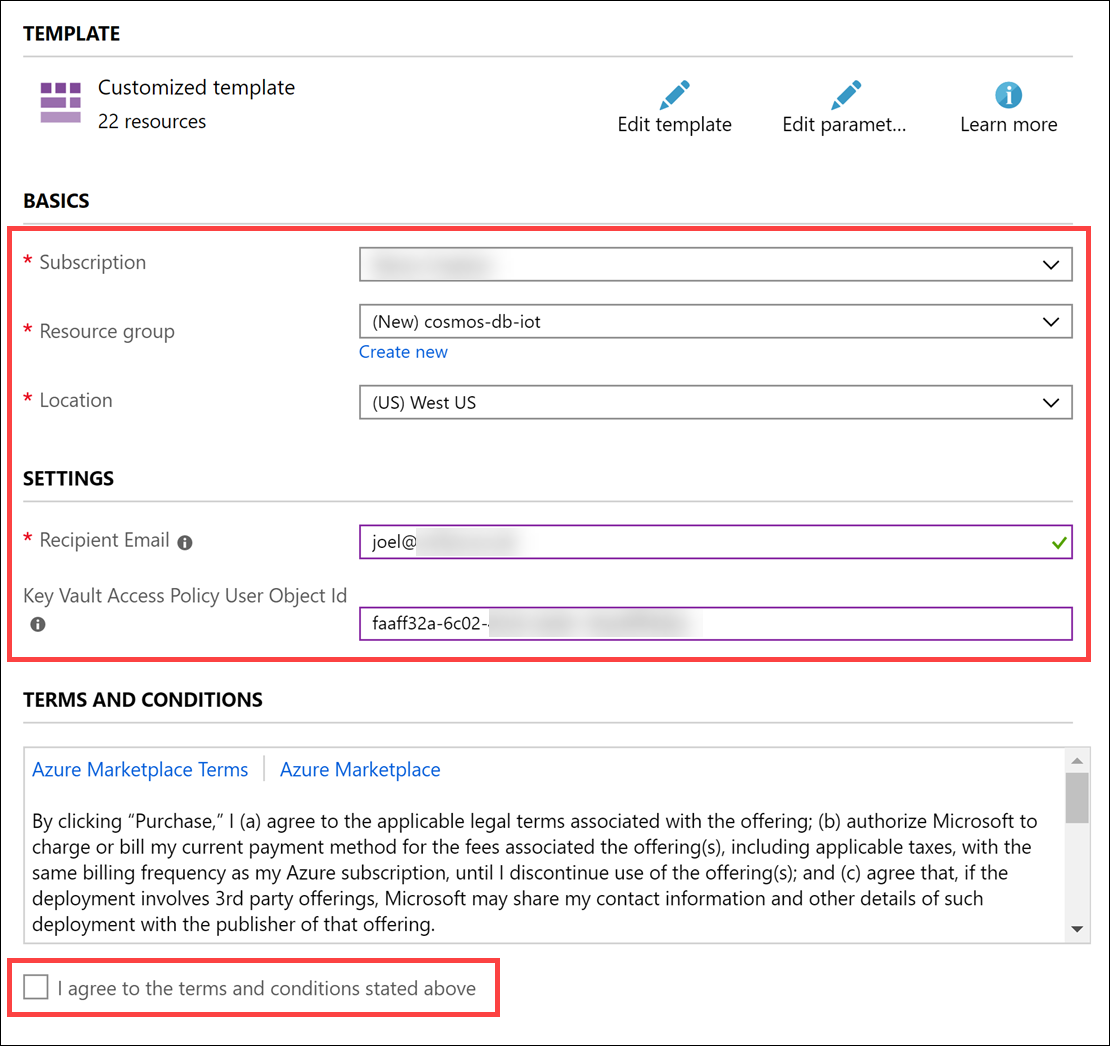
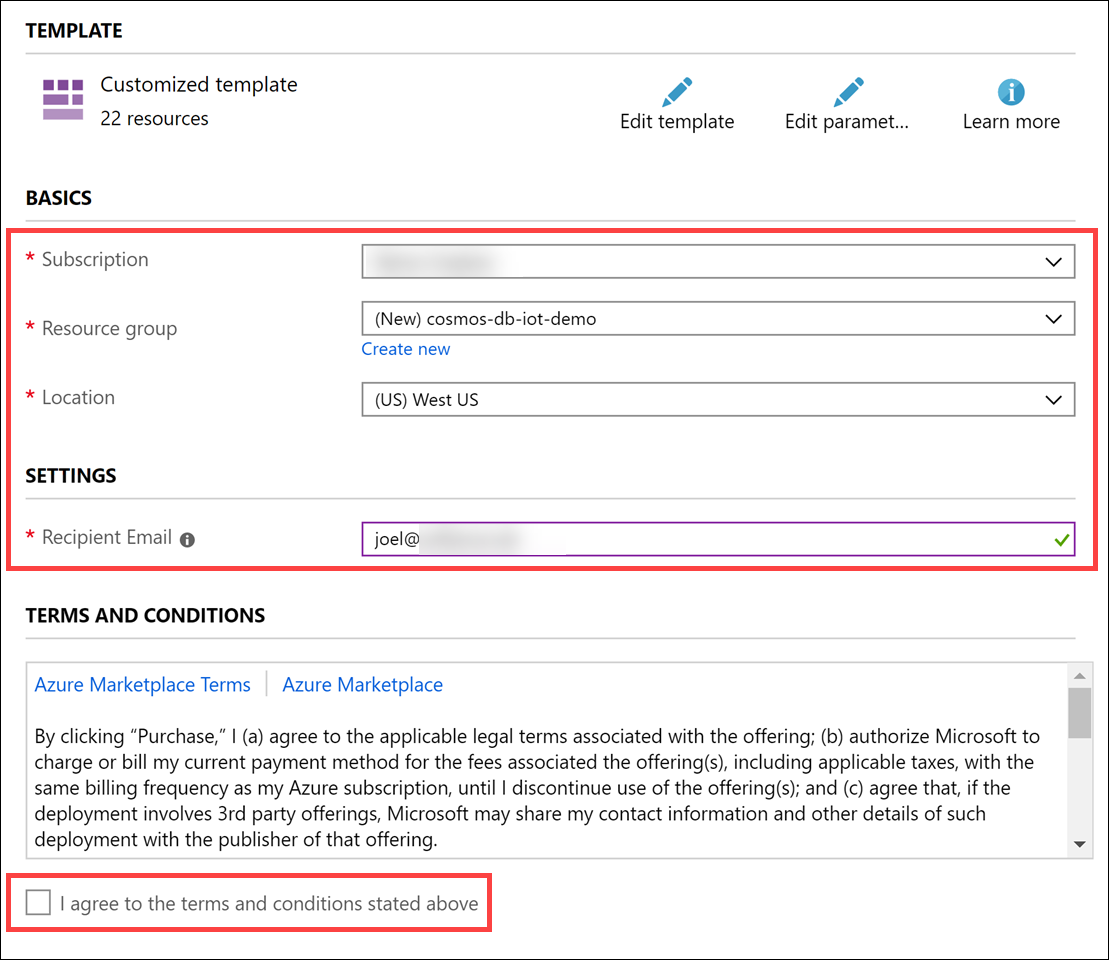
Added more Key Vault-related steps

diff --git a/IoT/HOL step-by step - Cosmos DB scenario-based labs - IoT.md b/IoT/HOL step-by step - Cosmos DB scenario-based labs - IoT.md
@@ -16,11 +16,12 @@
     - [Task 2: Configure Cosmos DB container indexing and TTL](#task-2-configure-cosmos-db-container-indexing-and-ttl)
       - [About the Cosmos DB indexing policies](#about-the-cosmos-db-indexing-policies)
     - [Task 3: Create a Logic App workflow for email alerts](#task-3-create-a-logic-app-workflow-for-email-alerts)
-    - [Task 4: Add Key Vault secrets](#task-4-add-key-vault-secrets)
-    - [Task 5: Create system-assigned managed identities for your Function Apps and Web App to connect to Key Vault](#task-5-create-system-assigned-managed-identities-for-your-function-apps-and-web-app-to-connect-to-key-vault)
-    - [Task 6: Add Function Apps and Web App to Key Vault access policy](#task-6-add-function-apps-and-web-app-to-key-vault-access-policy)
-    - [Task 7: Create Azure Databricks cluster](#task-7-create-azure-databricks-cluster)
-    - [Task 8: Configure Key Vault-backed Databricks secret store](#task-8-configure-key-vault-backed-databricks-secret-store)
+    - [Task 4: Create system-assigned managed identities for your Function Apps and Web App to connect to Key Vault](#task-4-create-system-assigned-managed-identities-for-your-function-apps-and-web-app-to-connect-to-key-vault)
+    - [Task 5: Add Function Apps and Web App to Key Vault access policy](#task-5-add-function-apps-and-web-app-to-key-vault-access-policy)
+    - [Task 6: Add your user account to Key Vault access policy](#task-6-add-your-user-account-to-key-vault-access-policy)
+    - [Task 7: Add Key Vault secrets](#task-7-add-key-vault-secrets)
+    - [Task 8: Create Azure Databricks cluster](#task-8-create-azure-databricks-cluster)
+    - [Task 9: Configure Key Vault-backed Databricks secret store](#task-9-configure-key-vault-backed-databricks-secret-store)
   - [Exercise 2: Configure windowed queries in Stream Analytics](#exercise-2-configure-windowed-queries-in-stream-analytics)
     - [Task 1: Add Stream Analytics Event Hubs input](#task-1-add-stream-analytics-event-hubs-input)
     - [Task 2: Add Stream Analytics outputs](#task-2-add-stream-analytics-outputs)
@@ -453,45 +454,7 @@ In this task, you will create a new Logic App workflow and configure it to send 
 
     ![The http post URL is highlighted.](media/logic-app-url.png 'Logic App')
 
-### Task 4: Add Key Vault secrets
-
-Azure Key Vault is used to Securely store and tightly control access to tokens, passwords, certificates, API keys, and other secrets. In addition, secrets that are stored in Azure Key Vault are centralized, giving the added benefits of only needing to update secrets in one place, such as an application key value after recycling the key for security purposes. In this task, we will store application secrets in Azure Key Vault, then configure the Function Apps and Web App to securely connect to Azure Key Vault by performing the following steps:
-
-- Add secrets to the provisioned Key Vault.
-- Create a system-assigned managed identity for each Azure Function App and the Web App to read from the vault.
-- Create an access policy in Key Vault with the "Get" secret permission, assigned to each of these application identities.
-
-> We recommend that you open two browser tabs for these steps. One to copy secrets from each Azure service, and the other to add the secrets to Key Vault.
-
-1. Using a new tab or instance of your browser, navigate to the Azure portal, <https://portal.azure.com>.
-
-2. Select **Resource groups** from the left-hand menu, then search for your resource group by typing in `cosmos-db-iot`. Select your resource group that you are using for this lab.
-
-3. Open the your **Key Vault**. The name should begin with `iot-vault`.
-
-   ![The Key Vault is highlighted in the resource group.](media/resource-group-keyvault.png 'Resource group')
-
-4. Select **Secrets** in the left-hand menu, then select **+ Generate/Import** to create a new secret.
-
-   ![The Secrets menu item is highlighted, and the Generate/Import button is selected.](media/key-vault-secrets-generate.png 'Key Vault Secrets')
-
-5. Use the table below for the Name / Value pairs to use when creating the secrets. You only need to populate the **Name** and **Value** fields for each secret, and can leave the other fields at their default values.
-
-   | **Name**            |                                                                          **Value**                                                                          |
-   | ------------------- | :---------------------------------------------------------------------------------------------------------------------------------------------------------: |
-   | CosmosDBConnection  |                            Your Cosmos DB connection string found here: **Cosmos DB account > Keys > Primary Connection String**                            |
-   | CosmosDBEndpoint    |                                           Your Cosmos DB endpoint found here: **Cosmos DB account > Keys > URI**                                            |
-   | CosmosDBPrimaryKey  |                                      Your Cosmos DB primary key found here: **Cosmos DB account > Keys > Primary Key**                                      |
-   | IoTHubConnection    |                         Your IoT Hub connection string found here: **IoT Hub > Built-in endpoints > Event Hub-compatible endpoint**                         |
-   | ColdStorageAccount  |  Connection string to the Azure Storage account whose name starts with `iotstore`, found here: **Storage account > Access keys > key1 Connection string**   |
-   | EventHubsConnection | Your Event Hubs connection string found here: **Event Hubs namespace > Shared access policies > RootManageSharedAccessKey > Connection string-primary key** |
-   | LogicAppUrl         |                         Your Logic App's HTTP Post URL found here: **Logic App Designer > Select the HTTP trigger > HTTP POST URL**                         |
-
-   When you are finished creating the secrets, your list should look similar to the following:
-
-   ![The list of secrets is displayed.](media/key-vault-keys.png 'Key Vault Secrets')
-
-### Task 5: Create system-assigned managed identities for your Function Apps and Web App to connect to Key Vault
+### Task 4: Create system-assigned managed identities for your Function Apps and Web App to connect to Key Vault
 
 In order for your Function Apps and Web App to be able to access Key Vault to read the secrets, you must [create a system-assigned managed identity](https://docs.microsoft.com/azure/app-service/overview-managed-identity#adding-a-system-assigned-identity) for each, and [create an access policy in Key Vault](https://docs.microsoft.com/azure/key-vault/key-vault-secure-your-key-vault#key-vault-access-policies) for the application identities.
 
@@ -523,73 +486,134 @@ In order for your Function Apps and Web App to be able to access Key Vault to re
 
    ![The Web App Identity value is set to On.](media/web-app-identity.png 'Identity')
 
-### Task 6: Add Function Apps and Web App to Key Vault access policy
+### Task 5: Add Function Apps and Web App to Key Vault access policy
+
+> We recommend that you open two browser tabs for this and the following Key Vault tasks. One tab will be used to copy secrets from each Azure service, and the other to add the secrets to Key Vault.
 
 Perform these steps to create an access policy that enables the "Get" secret permission:
 
-1. Open your Key Vault service.
+1. Using a new tab or instance of your browser, navigate to the Azure portal, <https://portal.azure.com>.
 
-2. Select **Access policies** in the left-hand menu.
+2. Select **Resource groups** from the left-hand menu, then search for your resource group by typing in `cosmos-db-iot`. Select your resource group that you are using for this lab.
 
-3. Select **+ Add Access Policy**.
+3. Open the your **Key Vault**. The name should begin with `iot-vault`.
+
+   ![The Key Vault is highlighted in the resource group.](media/resource-group-keyvault.png 'Resource group')
+
+4. Select **Access policies** in the left-hand menu.
+
+5. Select **+ Add Access Policy**.
 
    ![The Add Access Policy link is highlighted.](media/key-vault-add-access-policy.png 'Access policies')
 
-4. Select the **Select principal** section on the Add access policy form.
-
+6. Select the **Select principal** section on the Add access policy form.
    ![Select principal is highlighted.](media/key-vault-add-access-policy-select-principal.png 'Add access policy')
 
-5. In the Principal blade, search for your `IoT-CosmosDBProcessing` Function App's service principal, select it, then select the **Select** button.
+7. In the Principal blade, search for your `IoT-CosmosDBProcessing` Function App's service principal, select it, then select the **Select** button.
 
    ![The Function App's principal is selected.](media/key-vault-principal-function1.png 'Principal')
 
-6. Expand the **Secret permissions** and check **Get** under Secret Management Operations.
+8. Expand the **Secret permissions** and check **Get** under Secret Management Operations.
 
    ![The Get checkbox is checked under the Secret permissions dropdown.](media/key-vault-get-secret-policy.png 'Add access policy')
 
-7. Select **Add** to add the new access policy.
+9. Select **Add** to add the new access policy.
 
-8. When you are done, you should have an access policy for the Function App's managed identity. Select **+ Add Access Policy** to add another access policy.
+10. When you are done, you should have an access policy for the Function App's managed identity. Select **+ Add Access Policy** to add another access policy.
 
    ![Key Vault access policies.](media/key-vault-access-policies-function1.png 'Access policies')
 
-9. Select the **Select principal** section on the Add access policy form.
+11. Select the **Select principal** section on the Add access policy form.
 
    ![Select principal is highlighted.](media/key-vault-add-access-policy-select-principal.png 'Add access policy')
 
-10. In the Principal blade, search for your `IoT-StreamProcessing` Function App's service principal, select it, then select the **Select** button.
+12. In the Principal blade, search for your `IoT-StreamProcessing` Function App's service principal, select it, then select the **Select** button.
 
     ![The Function App's principal is selected.](media/key-vault-principal-function2.png 'Principal')
 
-11. Expand the **Secret permissions** and check **Get** under Secret Management Operations.
+13. Expand the **Secret permissions** and check **Get** under Secret Management Operations.
 
     ![The Get checkbox is checked under the Secret permissions dropdown.](media/key-vault-get-secret-policy.png 'Add access policy')
 
-12. Select **Add** to add the new access policy.
+14. Select **Add** to add the new access policy.
 
-13. When you are done, you should have an access policy for the Function App's managed identity. Select **+ Add Access Policy** to add another access policy.
+15. When you are done, you should have an access policy for the Function App's managed identity. Select **+ Add Access Policy** to add another access policy.
 
     ![Key Vault access policies.](media/key-vault-access-policies-function2.png 'Access policies')
 
-14. Select the **Select principal** section on the Add access policy form.
+16. Select the **Select principal** section on the Add access policy form.
 
     ![Select principal is highlighted.](media/key-vault-add-access-policy-select-principal.png 'Add access policy')
 
-15. In the Principal blade, search for your `IoTWebApp` Web App's service principal, select it, then select the **Select** button.
+17. In the Principal blade, search for your `IoTWebApp` Web App's service principal, select it, then select the **Select** button.
 
     ![The Web App's principal is selected.](media/key-vault-principal-webapp.png 'Principal')
 
-16. Expand the **Secret permissions** and check **Get** under Secret Management Operations.
+18. Expand the **Secret permissions** and check **Get** under Secret Management Operations.
 
     ![The Get checkbox is checked under the Secret permissions dropdown.](media/key-vault-get-secret-policy.png 'Add access policy')
 
-17. Select **Add** to add the new access policy.
+19. Select **Add** to add the new access policy.
 
-18. When you are done, you should have an access policy for the Web App's managed identity. Select **Save** to save your new access policies.
+20. When you are done, you should have an access policy for the Web App's managed identity. Select **Save** to save your new access policies.
 
     ![Key Vault access policies.](media/key-vault-access-policies-webapp.png 'Access policies')
 
-### Task 7: Create Azure Databricks cluster
+### Task 6: Add your user account to Key Vault access policy
+
+Perform these steps to create an access policy for your user account so you can manage secrets. Since we created Key Vault with a template, your account was not automatically added to the access policies.
+
+1. Within Key Vault, select **Access policies** in the left-hand menu.
+
+2. Select **+ Add Access Policy**.
+
+   ![The Add Access Policy link is highlighted.](media/key-vault-add-access-policy.png 'Access policies')
+
+3. Select the **Select principal** section on the Add access policy form.
+
+   ![Select principal is highlighted.](media/key-vault-add-access-policy-select-principal.png 'Add access policy')
+
+4. In the Principal blade, search for your Azure account you are using for this lab, select it, then select the **Select** button.
+
+   ![The user principal is selected.](media/key-vault-principal-user.png 'Principal')
+
+5. Expand the **Secret permissions** and check **Select all** under Secret Management Operations. All 8 should be selected.
+
+   ![The Select all checkbox is checked under the Secret permissions dropdown.](media/key-vault-all-secret-policy.png 'Add access policy')
+
+6. Select **Add** to add the new access policy.. When you are done, you should have an access policy for your user account. Select **Save** to save your new access policy.
+
+    ![Key Vault access policies.](media/key-vault-access-policies-user.png 'Access policies')
+
+### Task 7: Add Key Vault secrets
+
+Azure Key Vault is used to Securely store and tightly control access to tokens, passwords, certificates, API keys, and other secrets. In addition, secrets that are stored in Azure Key Vault are centralized, giving the added benefits of only needing to update secrets in one place, such as an application key value after recycling the key for security purposes. In this task, we will store application secrets in Azure Key Vault, then configure the Function Apps and Web App to securely connect to Azure Key Vault by performing the following steps:
+
+- Add secrets to the provisioned Key Vault.
+- Create a system-assigned managed identity for each Azure Function App and the Web App to read from the vault.
+- Create an access policy in Key Vault with the "Get" secret permission, assigned to each of these application identities.
+
+1. Within Key Vault, select **Secrets** in the left-hand menu, then select **+ Generate/Import** to create a new secret.
+
+   ![The Secrets menu item is highlighted, and the Generate/Import button is selected.](media/key-vault-secrets-generate.png 'Key Vault Secrets')
+
+2. Use the table below for the Name / Value pairs to use when creating the secrets. You only need to populate the **Name** and **Value** fields for each secret, and can leave the other fields at their default values.
+
+   | **Name**            |                                                                          **Value**                                                                          |
+   | ------------------- | :---------------------------------------------------------------------------------------------------------------------------------------------------------: |
+   | CosmosDBConnection  |                            Your Cosmos DB connection string found here: **Cosmos DB account > Keys > Primary Connection String**                            |
+   | CosmosDBEndpoint    |                                           Your Cosmos DB endpoint found here: **Cosmos DB account > Keys > URI**                                            |
+   | CosmosDBPrimaryKey  |                                      Your Cosmos DB primary key found here: **Cosmos DB account > Keys > Primary Key**                                      |
+   | IoTHubConnection    |                         Your IoT Hub connection string found here: **IoT Hub > Built-in endpoints > Event Hub-compatible endpoint**                         |
+   | ColdStorageAccount  |  Connection string to the Azure Storage account whose name starts with `iotstore`, found here: **Storage account > Access keys > key1 Connection string**   |
+   | EventHubsConnection | Your Event Hubs connection string found here: **Event Hubs namespace > Shared access policies > RootManageSharedAccessKey > Connection string-primary key** |
+   | LogicAppUrl         |                         Your Logic App's HTTP Post URL found here: **Logic App Designer > Select the HTTP trigger > HTTP POST URL**                         |
+
+   When you are finished creating the secrets, your list should look similar to the following:
+
+   ![The list of secrets is displayed.](media/key-vault-keys.png 'Key Vault Secrets')
+
+### Task 8: Create Azure Databricks cluster
 
 Contoso Auto wants to use the valuable data they are collecting from their vehicles to make predictions about the health of their fleet to reduce downtime due to maintenance-related issues. One of the predictions they would like to make is whether a vehicle's battery is likely to fail within the next 30 days, based on historical data. They would like to run a nightly batch process to identify vehicles that should be serviced, based on these predictions. They also want to have a way to make a prediction in real time when viewing a vehicle on their fleet management website.
 
@@ -647,7 +671,7 @@ In this task, you will create a new cluster on which data exploration and model 
 
 12. **Wait** until the library's status shows as **Installed** before continuing.
 
-### Task 8: Configure Key Vault-backed Databricks secret store
+### Task 9: Configure Key Vault-backed Databricks secret store
 
 In an earlier task, you added application secrets to Key Vault, such as the Cosmos DB connection string. In this task, you will configure the Key Vault-backed Databricks secret store to securely access these secrets.
 

diff --git a/IoT/Before the HOL - Cosmos DB scenario-based labs - IoT.md b/IoT/Before the HOL - Cosmos DB scenario-based labs - IoT.md
@@ -57,51 +57,38 @@ Download a starter project that includes a vehicle simulator, Azure Function App
 
 In this task, you will deploy the infrastructure for this demo using an ARM Template deployment.
 
-1. In the [Azure portal](https://portal.azure.com), navigate to **Azure Active Directory** in the left-hand menu, then select **Users** under Manage.
-
-   ![Azure Active Directory blade with Users highlighted](media/deploy-azure-ad-users-link.png 'Azure Active Directory blade with Users highlighted')
-
-2. Select your user from the list with which you logged in to the portal.
-
-   ![All users list with user highlighted](media/deploy-azure-ad-user-list.png 'All users list with user highlighted')
-
-3. On the **User** blade, copy the **Object ID** for this user.
-
-   ![User blade is shown with Object ID highlighted](media/deploy-azure-ad-user-object-id.png 'User blade is shown with Object ID highlighted')
-
-4. In the Azure portal, select **+ Create a resource**. Enter **template** in the search box, then select **Template deployment (deploy using custom templates)**.
+1. In the [Azure portal](https://portal.azure.com), select **+ Create a resource**. Enter **template** in the search box, then select **Template deployment (deploy using custom templates)**.
 
    ![Create a resource is highlighted, and template is entered in the search box.](media/portal-search-template.png 'New Template Resource')
 
-5. Select **Create** on the Template deployment overview blade.
+2. Select **Create** on the Template deployment overview blade.
 
-6. On the **Custom deployment** pane, select **Build your own template in the editor**.
+3. On the **Custom deployment** pane, select **Build your own template in the editor**.
 
    ![The Build your own template in the editor option is highlighted.](media/portal-custom-deployment-build-own.png 'Custom deployment')
 
-7. On the **Edit template** blade, select the **Load file** button and upload the **labDeploy.json** ARM Template located at `\cosmos-db-scenario-based-labs\IoT\deploy\labDeploy.json`.
+4. On the **Edit template** blade, select the **Load file** button and upload the **labDeploy.json** ARM Template located at `\cosmos-db-scenario-based-labs\IoT\deploy\labDeploy.json`.
 
    ![The load file button is highlighted and the labDeploy.json file is selected](media/portal-custom-deployment-load.png 'Load file')
 
-8. Select **Save**.
+5. Select **Save**.
 
-9. Enter the following values:
+6. Enter the following values:
 
    - Subscription: select the Azure subscription you are using for this lab.
    - Resource group: _if you are using a hosted environment, select the existing `iot` resource group provided for you_; Otherwise, create a new resource group like `cosmos-db-iot`.
    - Location: _it doesn't matter which region is selected, the template will use West US to ensure everything works_
-   - Key Vault Access Policy User Object Id: paste your user account's `Object ID` you copied earlier.
 
-10. Check the **I agree to the terms and conditions stated above** box.
+7. Check the **I agree to the terms and conditions stated above** box.
 
-    ![The fields are completed as shown.](media/portal-template-params.png 'Custom template form')
+   ![The fields are completed as shown.](media/portal-template-params.png 'Custom template form')
 
-11. Select **Purchase**
+8. Select **Purchase**
 
-    After the deployment completes, you can select **Outputs** from the left-hand menu to find the names of your new Azure resources, as well as useful information like connection strings and endpoints.
+   After the deployment completes, you can select **Outputs** from the left-hand menu to find the names of your new Azure resources, as well as useful information like connection strings and endpoints.
 
-    ![The outputs are displayed after the template deployment is completed.](media/portal-deployment-outputs.png 'Microsoft Template - Outputs')
+   ![The outputs are displayed after the template deployment is completed.](media/portal-deployment-outputs.png 'Microsoft Template - Outputs')
 
-    > The template deployment will take a few minutes to complete. Continue with the hands-on lab guide once it completes.
+   > The template deployment will take a few minutes to complete. Continue with the hands-on lab guide once it completes.
 
 You should follow all steps provided _before_ performing the Hands-on lab.
